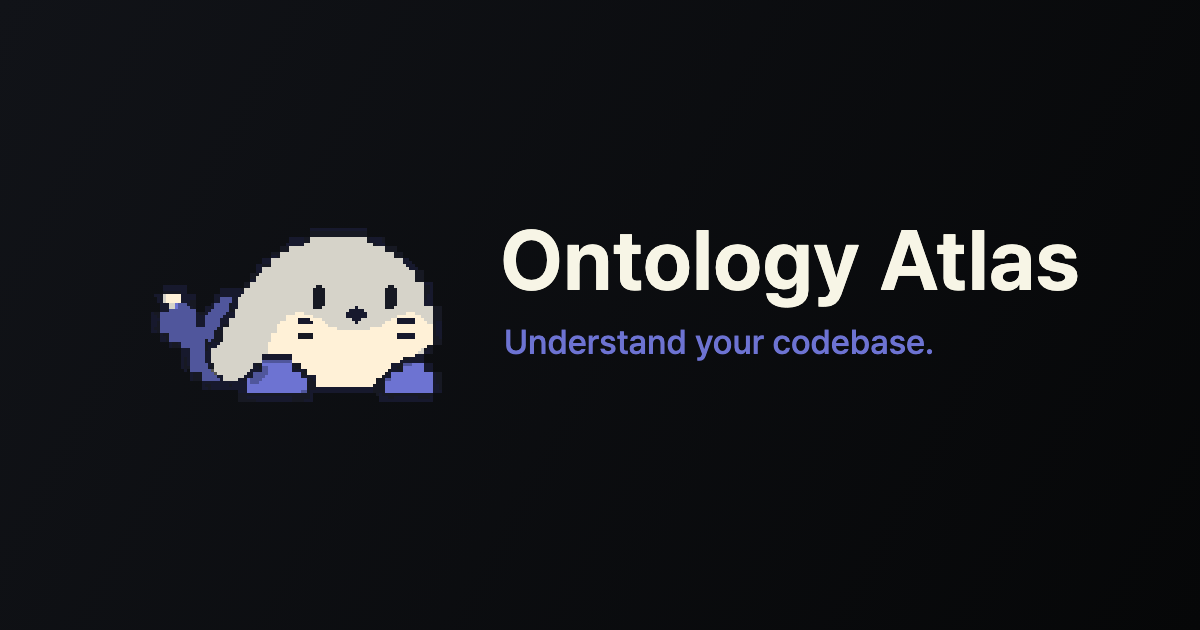
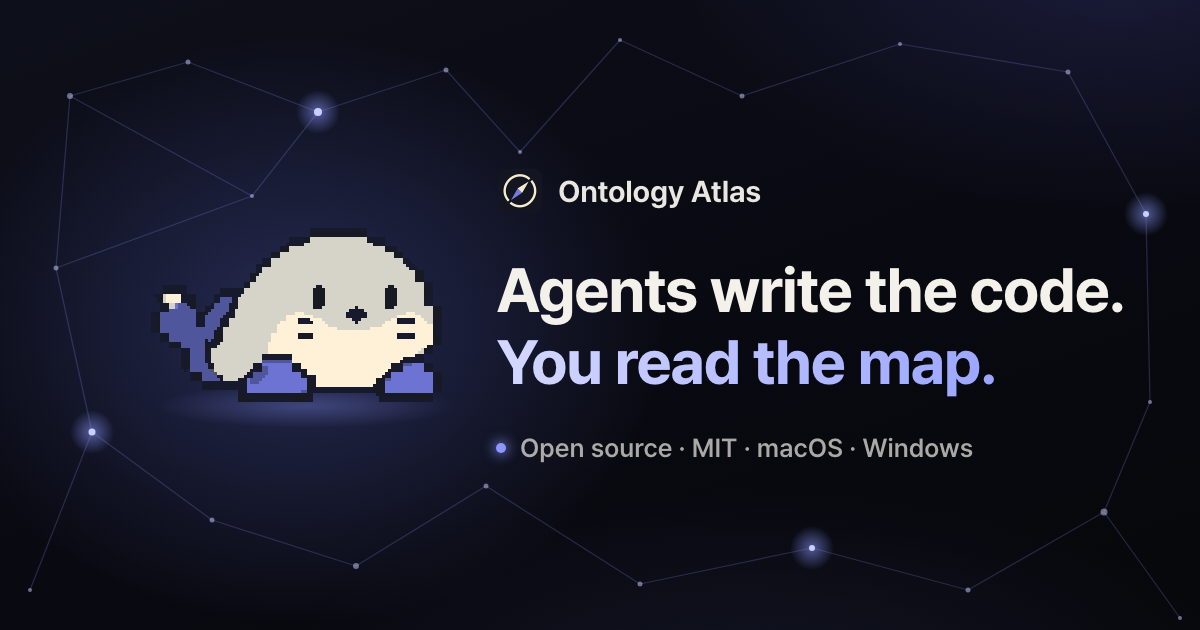
design(brand): give each locale a Moru link-preview card
A shared link showed one English-only card with a plain gradient. Each
locale now gets its own 1200x630 card: Moru as whole pixels, the compass
lockup, that locale's download headline and a short fact line over a dark
indigo field with a faint map constellation, so a link shared in Korean,
Japanese or Chinese previews in that language.

The copy is read from messages/<locale>/download.json on every run of
pnpm og:build, so a headline change regenerates the same layout. Moru is
the presentation master at 3x on the spot the raster test audits, and the
PNG stays full colour because a 256-colour palette moved Moru's rarest
ink. Page metadata points each routed locale at /og/<locale>.png; the root
layout and x-default keep /og-image.png, which is the English card.

diff --git a/src/shared/lib/public-pages/page-metadata.ts b/src/shared/lib/public-pages/page-metadata.ts
@@ -28,7 +28,7 @@ export interface PageMetadataInput {
   path: string;
   title: string;
   description: string;
-  /** Only when the page has its own OG image; otherwise the site OG image is used. */
+  /** Only when the page has its own OG image; otherwise the locale's site card is used. */
   ogImage?: string;
   /**
    * Set when the page directory has an `opengraph-image.tsx`. A leaf `images` value, even via
@@ -40,9 +40,13 @@ export interface PageMetadataInput {
 
 /**
  * Every page must carry the social card explicitly: Next replaces the whole top-level
- * `openGraph`/`twitter` key when merging, so root layout images are dropped.
+ * `openGraph`/`twitter` key when merging, so root layout images are dropped. A routed locale
+ * gets its own card (`pnpm og:build`); anything else falls back to the English site card.
  */
-const SITE_OG_IMAGE = { url: '/og-image.png', width: 1200, height: 630, alt: 'Ontology Atlas' };
+function siteOgImage(locale: string, locales: readonly string[]) {
+  const url = locales.includes(locale) ? `/og/${locale}.png` : '/og-image.png';
+  return { url, width: 1200, height: 630, alt: 'Ontology Atlas' };
+}
 
 export interface PageMetadataLocales {
   locales: readonly string[];
@@ -76,6 +80,7 @@ export function buildPageMetadata(
     'x-default': absolute(registry.defaultLocale, path),
   };
   for (const l of registry.locales) languages[registry.meta[l]?.hreflang ?? l] = absolute(l, path);
+  const siteImage = siteOgImage(locale, registry.locales);
 
   return {
     title: absoluteTitle ? { absolute: title } : title,
@@ -88,13 +93,13 @@ export function buildPageMetadata(
       title,
       description,
       locale: registry.meta[locale]?.ogLocale ?? locale,
-      ...(hasFileConventionImage ? {} : { images: [ogImage ? { url: ogImage } : SITE_OG_IMAGE] }),
+      ...(hasFileConventionImage ? {} : { images: [ogImage ? { url: ogImage } : siteImage] }),
     },
     twitter: {
       card: 'summary_large_image',
       title,
       description,
-      ...(hasFileConventionImage ? {} : { images: [ogImage ?? SITE_OG_IMAGE.url] }),
+      ...(hasFileConventionImage ? {} : { images: [ogImage ?? siteImage.url] }),
     },
   };
 }

diff --git a/src/shared/lib/public-pages/page-metadata.test.ts b/src/shared/lib/public-pages/page-metadata.test.ts
@@ -1,4 +1,7 @@
+import { existsSync } from 'node:fs';
+import path from 'node:path';
 import { describe, expect, it } from 'vitest';
+import { routing } from '@/i18n/routing';
 import { buildPageMetadata, type PageMetadataLocales } from './page-metadata';
 
 // Next replaces the whole top-level openGraph/twitter key when merging metadata, so every card
@@ -11,13 +14,26 @@ describe('buildPageMetadata', () => {
     description: 'Get the app.',
   };
 
-  it('always carries the site OG image and site name, even without a page image', () => {
-    const meta = buildPageMetadata(base);
-    const og = meta.openGraph as { images: unknown[]; siteName?: string };
-    expect(og.images).toEqual([
-      { url: '/og-image.png', width: 1200, height: 630, alt: 'Ontology Atlas' },
-    ]);
-    expect(og.siteName).toBe('Ontology Atlas');
+  it.each(['en', 'ko', 'ja', 'zh'])(
+    'always carries the %s site card and site name, even without a page image',
+    (locale) => {
+      const meta = buildPageMetadata({ ...base, locale });
+      const og = meta.openGraph as { images: unknown[]; siteName?: string };
+      expect(og.images).toEqual([
+        { url: `/og/${locale}.png`, width: 1200, height: 630, alt: 'Ontology Atlas' },
+      ]);
+      expect(og.siteName).toBe('Ontology Atlas');
+      expect((meta.twitter as { images: string[] }).images).toEqual([`/og/${locale}.png`]);
+    },
+  );
+
+  it.each([...routing.locales])('ships the %s card the metadata points at', (locale) => {
+    expect(existsSync(path.join(process.cwd(), 'public', 'og', `${locale}.png`))).toBe(true);
+  });
+
+  it('falls back to the English site card for a locale outside the registry', () => {
+    const meta = buildPageMetadata({ ...base, locale: 'fr' });
+    expect((meta.openGraph as { images: { url: string }[] }).images[0].url).toBe('/og-image.png');
     expect((meta.twitter as { images: string[] }).images).toEqual(['/og-image.png']);
   });
 

diff --git a/README.md b/README.md
@@ -171,6 +171,7 @@ implementation still require exhaustive CI.
 | `pnpm licenses:check` · `pnpm notice:build` · `pnpm notice:check` | Shipped packages are on the license allow-list, and `NOTICE.md` is current ([rules](docs/engineering/third-party-code.md)) |
 | `pnpm messages:build` · `pnpm messages:check` · `pnpm messages:adopt` | Compose `messages/<locale>.json` from one file per namespace, prove it current, and carry an old branch's edits |
 | `pnpm messages:coverage -- --locale <code>` | Checks one locale's strings against `en`: arguments, plurals, script, keep-terms and typography |
+| `pnpm og:build` | Re-render the 1200×630 link-preview card for each locale into `public/og/` and `public/og-image.png` from the download headline; macOS for the Japanese and Chinese faces |
 | `pnpm perf:mcp:memory` · `pnpm perf:mcp:memory:check` | Whether the MCP server releases memory across repeated calls; about a minute |
 | `pnpm pr:ci <n>` | Fire CI on a draft now |
 | `pnpm pr:land --plan <n...>` · `pnpm pr:land --conduct` | Dry-run a merge, or merge queued pull requests until the queue is empty |
